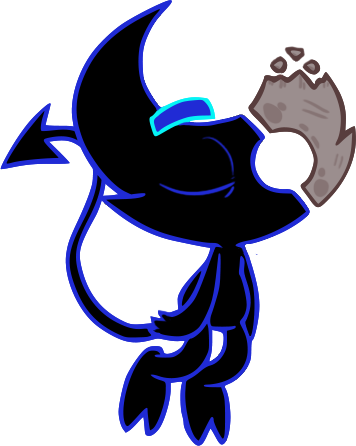
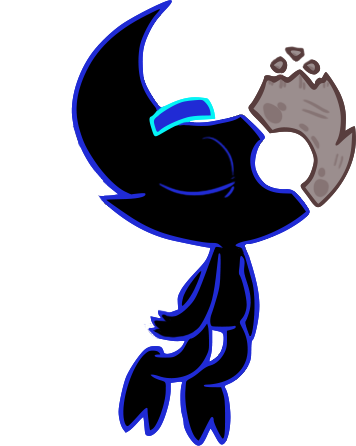
Add files via upload

Changed region(s): [[0.1854, 0.3789, 0.4944, 0.787], [0.0, 0.2332, 0.2163, 0.3789]]

diff --git a/index.html b/index.html
@@ -36,17 +36,6 @@
       pointer-events: none;
     }
 
-    .background-fireflies {
-      position: fixed;
-      inset: 0;
-      z-index: 0;
-      pointer-events: none;
-      background: url("./firefly.gif") center center / contain no-repeat;
-      opacity: 0.48;
-      transform: translateZ(0);
-      will-change: opacity;
-    }
-
     .scoreboard {
       position: fixed;
       top: 16px;
@@ -133,9 +122,14 @@
     }
 
     #malph-image,
+    #malph-tail,
     #malph-pupil {
       position: absolute;
       inset: 0;
+    }
+
+    #malph-tail {
+      z-index: 0;
     }
 
     #malph-image {
@@ -157,6 +151,13 @@
       opacity: 0;
     }
 
+    .malph-tail {
+      pointer-events: none;
+      transform-origin: 56% 62%;
+      animation: tailBreathe 6.4s ease-in-out infinite;
+      will-change: transform;
+    }
+
     @keyframes hover {
       0%,
       100% {
@@ -168,6 +169,17 @@
       }
     }
 
+    @keyframes tailBreathe {
+      0%,
+      100% {
+        transform: translateX(-1px) translateY(1px) rotate(-5deg);
+      }
+
+      50% {
+        transform: translateX(1px) translateY(-1px) rotate(1deg);
+      }
+    }
+
     @media (max-width: 520px) {
       .character {
         width: min(27vw, 96px);
@@ -176,8 +188,6 @@
   </style>
 </head>
 <body>
-  <div class="background-fireflies" aria-hidden="true"></div>
-
   <div class="scoreboard" aria-live="polite">
     <span>Jumps</span>
     <span class="score" id="score">0</span>
@@ -185,6 +195,7 @@
 
   <button class="character" id="character" type="button" aria-label="Make the character jump">
     <span class="character-sprite">
+      <img class="malph-tail" id="malph-tail" src="./tail.png" alt="">
       <img id="malph-image" src="./character-open-nopupil.png" alt="">
       <img class="malph-pupil" id="malph-pupil" src="./pupil.png" alt="">
     </span>
@@ -194,6 +205,7 @@
 
   <script>
     const character = document.querySelector("#character");
+    const malphTail = document.querySelector("#malph-tail");
     const malphImage = document.querySelector("#malph-image");
     const malphPupil = document.querySelector("#malph-pupil");
     const score = document.querySelector("#score");
@@ -229,10 +241,12 @@
       window.clearTimeout(blinkTimeoutId);
       malphPupil.classList.add("is-hidden");
       malphImage.src = blinkImage;
+      malphTail.src = "./tail.png";
     }
 
     function endBlink() {
       malphImage.src = openImage;
+      malphTail.src = "./tail.png";
       malphPupil.classList.remove("is-hidden");
     }
 
